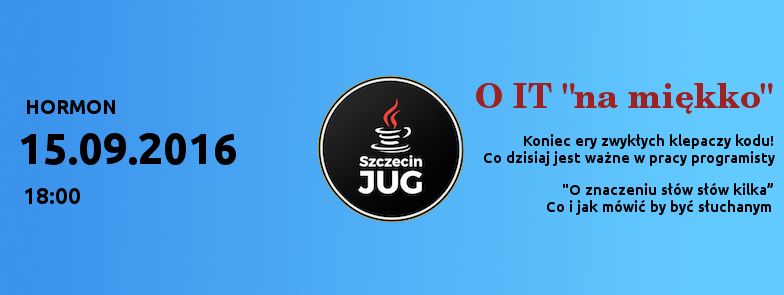
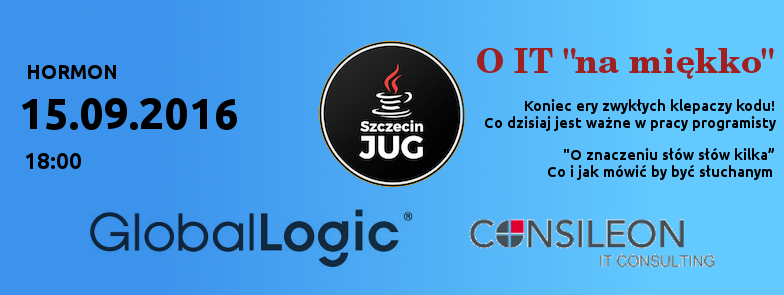
Built szczecin-jug from commit f8044a3 on branch dev

diff --git a/page2/index.html b/page2/index.html
@@ -103,8 +103,9 @@ czyli jak budować aplikację dostosowującą się do środowiska i klienta, a n
     <section>
         <div class="container">
             <h2>Sponsorzy</h2>
-<!--            <a href="http://blstream.com"><img style="max-width: 300px" src="/images/sponsors/blstream.png"></a>
-            <a href="http://jetbrains.com/"><img src="/images/sponsors/logo_jetbrains.png"></a> -->
+<!--        <a href="http://blstream.com"><img style="max-width: 300px" src="/images/sponsors/blstream.png"></a> -->
+            <a href="https://consileon.pl/"><img style="max-width: 200px" src="/images/sponsors/consileon_logo.gif"></a>
+            <a href="https://www.globallogic.com/"><img style="max-width: 200px" src="/images/sponsors/GlobalLogic-logo.jpg"></a>
         </div>
     </section>
 </div>
@@ -115,7 +116,8 @@ czyli jak budować aplikację dostosowującą się do środowiska i klienta, a n
     <section>
         <div class="container">
             <h2>Partnerzy</h2>
-<!--            <a href="http://blpoland.com/?page_id=2882"><img class="partner" src="http://m.natemat.pl/3baffcbb18db9dc4fdf5a0b4ddd3a0b9,640,0,0,0.png"></a>
+            <a href="http://jetbrains.com/"><img src="/images/partners/logo_JetBrains_4.png">
+            <!--
             <a href="https://nofluffjobs.com"><img class="partner" src="http://old.szjug.pl/wp-content/uploads/2015/01/no_fluf_jobs_.png"></a>
             <a href="http://netcamp.pl"><img class="partner" src="/images/partners/netcamp-logo.png" alt="Netcamp"></a> -->
         </div>

diff --git a/index.html b/index.html
@@ -102,8 +102,9 @@
     <section>
         <div class="container">
             <h2>Sponsorzy</h2>
-<!--            <a href="http://blstream.com"><img style="max-width: 300px" src="/images/sponsors/blstream.png"></a>
-            <a href="http://jetbrains.com/"><img src="/images/sponsors/logo_jetbrains.png"></a> -->
+<!--        <a href="http://blstream.com"><img style="max-width: 300px" src="/images/sponsors/blstream.png"></a> -->
+            <a href="https://consileon.pl/"><img style="max-width: 200px" src="/images/sponsors/consileon_logo.gif"></a>
+            <a href="https://www.globallogic.com/"><img style="max-width: 200px" src="/images/sponsors/GlobalLogic-logo.jpg"></a>
         </div>
     </section>
 </div>
@@ -114,7 +115,8 @@
     <section>
         <div class="container">
             <h2>Partnerzy</h2>
-<!--            <a href="http://blpoland.com/?page_id=2882"><img class="partner" src="http://m.natemat.pl/3baffcbb18db9dc4fdf5a0b4ddd3a0b9,640,0,0,0.png"></a>
+            <a href="http://jetbrains.com/"><img src="/images/partners/logo_JetBrains_4.png">
+            <!--
             <a href="https://nofluffjobs.com"><img class="partner" src="http://old.szjug.pl/wp-content/uploads/2015/01/no_fluf_jobs_.png"></a>
             <a href="http://netcamp.pl"><img class="partner" src="/images/partners/netcamp-logo.png" alt="Netcamp"></a> -->
         </div>
